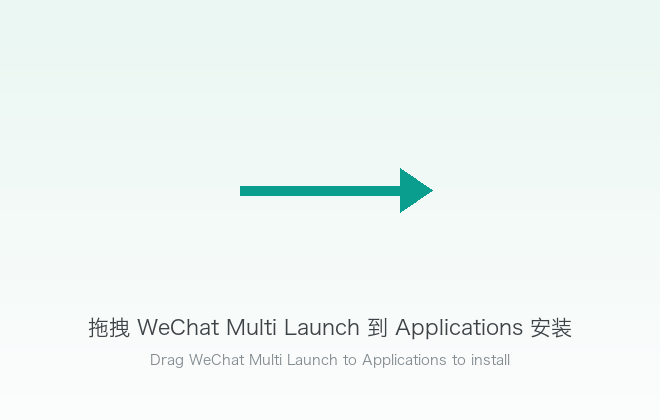
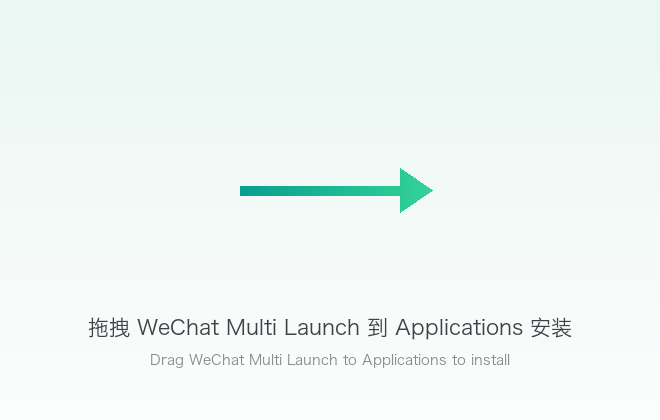
Fix DMG window sizing and use a gradient install arrow

Changed region(s): [[0.4848, 0.4024, 0.6667, 0.4952]]

diff --git a/gui/make-dmg-background.py b/gui/make-dmg-background.py
@@ -15,10 +15,20 @@ for y in range(H):
     ImageDraw.Draw(img).line([(0, y), (W, y)], fill=row)
 
 d = ImageDraw.Draw(img)
-teal = (10, 158, 143)
 y = 190
-d.line([(240, y), (400, y)], fill=teal, width=10)
-d.polygon([(400, y - 22), (400, y + 22), (432, y)], fill=teal)
+# Gradient arrow: teal at the tail fading to bright green at the head.
+mask = Image.new("L", (W, H), 0)
+md = ImageDraw.Draw(mask)
+md.line([(240, y), (400, y)], fill=255, width=10)
+md.polygon([(400, y - 22), (400, y + 22), (432, y)], fill=255)
+grad = Image.new("RGB", (W, H))
+gd = ImageDraw.Draw(grad)
+c0 = (10, 158, 143)
+c1 = (52, 211, 153)
+for x in range(W):
+    t = min(1.0, max(0.0, (x - 240) / (432 - 240)))
+    gd.line([(x, 0), (x, H)], fill=tuple(int(c0[i] + (c1[i] - c0[i]) * t) for i in range(3)))
+img.paste(grad, (0, 0), mask)
 
 
 def font(size):
